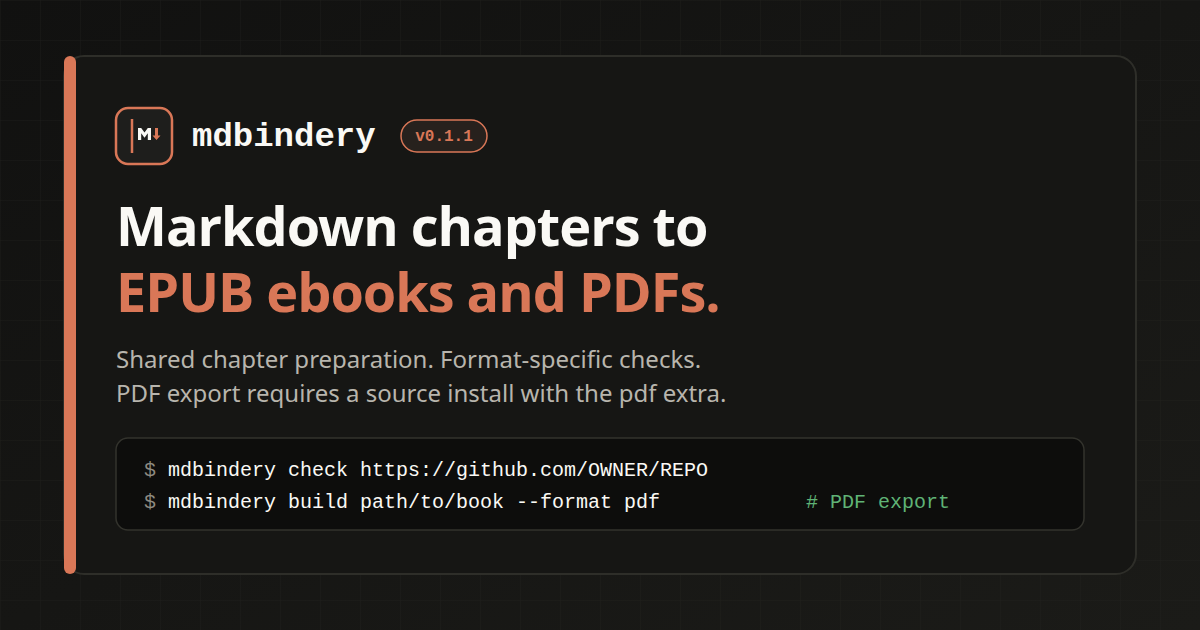
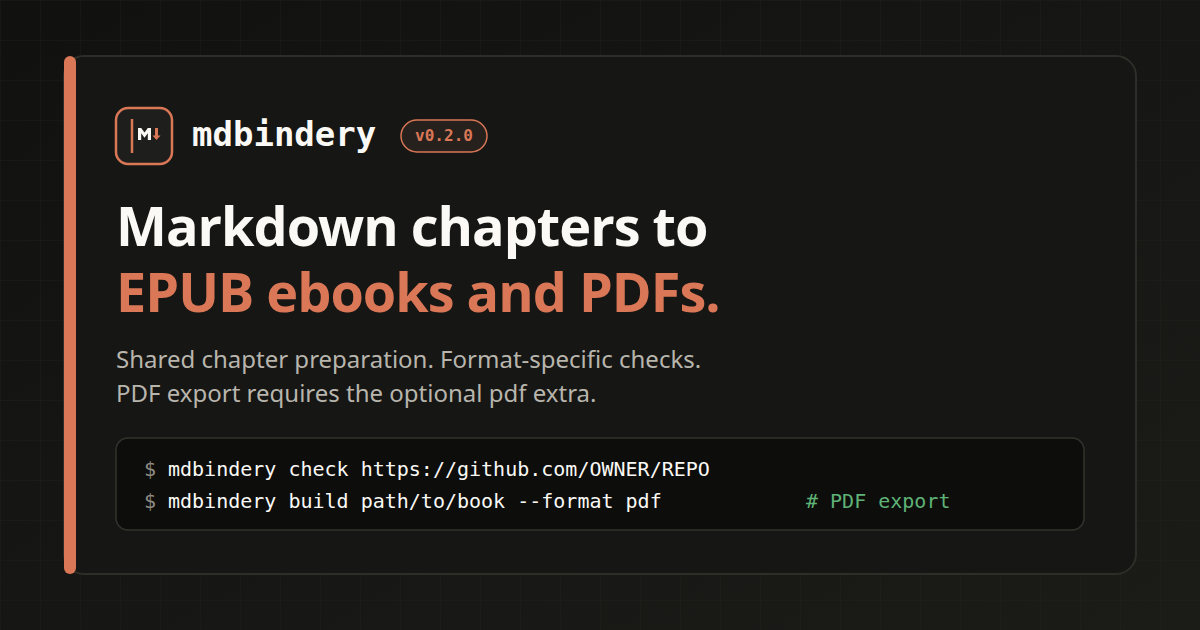
Prepare 0.2.0 release and PDF installation docs

diff --git a/site/index.html b/site/index.html
@@ -17,7 +17,7 @@
   <meta name="theme-color" content="#111110">
 
   <title>mdbindery: Markdown chapters to EPUB and PDF</title>
-  <meta name="description" content="Build EPUB 3 ebooks or paginated PDFs from Markdown chapters and mdBook projects. EPUB is the default; unreleased PDF export requires a source install with the pdf extra.">
+  <meta name="description" content="Build EPUB 3 ebooks or paginated PDFs from Markdown chapters and mdBook projects. EPUB is the default; PDF export requires the optional pdf extra.">
   <meta name="keywords" content="mdbindery, markdown to epub, github to epub, epub 3 generator, mdbook to epub, epubcheck cli, daisy ace accessibility, pandoc epub builder, reproducible epub, ai agent skill epub">
   <meta name="author" content="Taras Baranyuk">
   <meta name="robots" content="index, follow, max-image-preview:large, max-snippet:-1, max-video-preview:-1">
@@ -35,7 +35,7 @@
   <meta property="og:type" content="website">
   <meta property="og:site_name" content="mdbindery">
   <meta property="og:title" content="mdbindery: Markdown chapters to EPUB and PDF">
-  <meta property="og:description" content="Build EPUB 3 ebooks or paginated PDFs from Markdown chapters and mdBook projects. EPUB is the default; unreleased PDF export requires a source install with the pdf extra.">
+  <meta property="og:description" content="Build EPUB 3 ebooks or paginated PDFs from Markdown chapters and mdBook projects. EPUB is the default; PDF export requires the optional pdf extra.">
   <meta property="og:url" content="https://sagol.github.io/mdbindery/">
   <meta property="og:image" content="https://sagol.github.io/mdbindery/og-image.png">
   <meta property="og:image:width" content="1200">
@@ -46,7 +46,7 @@
   <!-- Twitter / X Card -->
   <meta name="twitter:card" content="summary_large_image">
   <meta name="twitter:title" content="mdbindery: Markdown chapters to EPUB and PDF">
-  <meta name="twitter:description" content="Build EPUB 3 ebooks or paginated PDFs from Markdown chapters and mdBook projects. EPUB is the default; unreleased PDF export requires a source install with the pdf extra.">
+  <meta name="twitter:description" content="Build EPUB 3 ebooks or paginated PDFs from Markdown chapters and mdBook projects. EPUB is the default; PDF export requires the optional pdf extra.">
   <meta name="twitter:image" content="https://sagol.github.io/mdbindery/og-image.png">
   <meta name="twitter:image:alt" content="mdbindery commands for building EPUB ebooks and optional PDFs from Markdown">
 
@@ -62,7 +62,7 @@
         "@id": "https://sagol.github.io/mdbindery/#website",
         "url": "https://sagol.github.io/mdbindery/",
         "name": "mdbindery",
-        "description": "Build EPUB 3 ebooks or paginated PDFs from Markdown chapters and mdBook projects. EPUB is the default; unreleased PDF export requires a source install with the pdf extra.",
+        "description": "Build EPUB 3 ebooks or paginated PDFs from Markdown chapters and mdBook projects. EPUB is the default; PDF export requires the optional pdf extra.",
         "inLanguage": "en-US"
       },
       {
@@ -72,7 +72,7 @@
         "applicationCategory": "DeveloperApplication",
         "applicationSubCategory": "Publishing & Ebook Toolchain",
         "operatingSystem": "Linux, macOS, Windows",
-        "softwareVersion": "0.1.1",
+        "softwareVersion": "0.2.0",
         "license": "https://opensource.org/licenses/MIT",
         "url": "https://sagol.github.io/mdbindery/",
         "downloadUrl": "https://pypi.org/project/mdbindery/",
@@ -90,7 +90,7 @@
         },
         "featureList": [
           "Converts GitHub Markdown repositories and mdBook projects into EPUB 3 ebooks",
-          "Exports paginated PDFs from source installations with the pdf extra; unreleased in version 0.1.1",
+          "Exports paginated PDFs with the optional pdf extra",
           "Resolves cross-file relative links, GitHub heading slugs, and custom HTML anchors",
           "Transforms invisible numeric reference definitions [1] into linked reference lists",
           "Renders Mermaid diagrams to PNG with automatic alt text",
@@ -168,7 +168,7 @@
             "name": "Can I export PDF as well as EPUB?",
             "acceptedAnswer": {
               "@type": "Answer",
-              "text": "Yes, from a source install with the pdf extra and Node/Puppeteer tools. Use mdbindery build --format pdf. EPUB remains the default. PDF reports live in reports/pdf/; EPUBCheck and Ace apply only to EPUB. PDF support is unreleased and is not included in version 0.1.1."
+              "text": "Yes, with version 0.2.0 or newer, the pdf extra and Node/Puppeteer tools. Use mdbindery build --format pdf. EPUB remains the default. PDF reports live in reports/pdf/; EPUBCheck and Ace apply only to EPUB."
             }
           }
         ]
@@ -186,7 +186,7 @@
       <a class="brand" href="./" aria-label="mdbindery home">
         <img class="brand-icon" src="favicon.svg" alt="" width="30" height="30">
         <span>mdbindery</span>
-        <span class="version-pill">v0.1.1</span>
+        <span class="version-pill">v0.2.0</span>
       </a>
 
       <nav class="site-nav" aria-label="Primary navigation">
@@ -229,7 +229,7 @@
           <strong>mdbindery</strong> turns Markdown chapters or mdBook projects into EPUB 3 ebooks or paginated PDFs. Both formats share chapter links, citations, images, Mermaid diagrams and table conversion. EPUB runs EPUBCheck and DAISY Ace; PDF checks resources, links and extracted text. Review reports and layout before sharing.
         </p>
 
-        <p>EPUB remains the default. PDF export is unreleased and needs a source install with the <code>pdf</code> extra. <a href="#pdf-install">Set up PDF export</a>.</p>
+        <p>EPUB remains the default. PDF export is available with the optional <code>pdf</code> extra. <a href="#pdf-install">Set up PDF export</a>.</p>
 
         <div class="hero-cta-row">
           <a class="btn btn-primary" href="#install">Install mdbindery</a>
@@ -263,7 +263,7 @@ mdbindery: writing-a-book-in-markdown (5 files)
 <span class="cmd-ok">BUILD OK</span>
 
 <span class="cmd-comment"># 3. Export PDF after installing PDF dependencies</span>
-<span class="cmd-prompt">$ </span>mdbindery build examples/sample-book --format pdf</code></pre>
+<span class="cmd-prompt">$ </span>mdbindery build ./my-book --format pdf</code></pre>
           </div>
 
           <aside class="ereader-card" aria-label="Rendered EPUB 3 phone preview illustration">
@@ -410,7 +410,7 @@ mdbindery: writing-a-book-in-markdown (5 files)
             <p>Pin a specific release tag or pass <code>--no-node</code> to skip Node.js tools (<code>~370 MB</code> instead of <code>~1.5 GB</code>):</p>
             <div class="code-block-wrap">
               <button class="copy-btn" type="button" data-copy-target="code-install-unix-pin">Copy</button>
-              <pre><code id="code-install-unix-pin">curl -fsSL https://raw.githubusercontent.com/sagol/mdbindery/v0.1.1/install/install.sh | bash -s -- --ref v0.1.1</code></pre>
+              <pre><code id="code-install-unix-pin">curl -fsSL https://raw.githubusercontent.com/sagol/mdbindery/v0.2.0/install/install.sh | bash -s -- --ref v0.2.0</code></pre>
             </div>
           </div>
 
@@ -450,19 +450,19 @@ mdbindery doctor</code></pre>
             <p>Use the official composite GitHub Action with tool caching across workflow runs:</p>
             <div class="code-block-wrap">
               <button class="copy-btn" type="button" data-copy-target="code-install-gha">Copy</button>
-              <pre><code id="code-install-gha">- uses: sagol/mdbindery@v0.1.1
+              <pre><code id="code-install-gha">- uses: sagol/mdbindery@v0.2.0
 - run: mdbindery build path/to/book</code></pre>
             </div>
           </div>
         </div>
         <div id="pdf-install">
-          <h3>Optional PDF export from source</h3>
-          <p>Released version <code>0.1.1</code> predates PDF support. From a source checkout containing this feature, run these commands at the repository root in your Python environment:</p>
+          <h3>Optional PDF export</h3>
+          <p>Install version 0.2.0 or newer with the PDF extra in your Python environment:</p>
           <div class="code-block-wrap">
             <button class="copy-btn" type="button" data-copy-target="code-install-pdf">Copy</button>
-            <pre><code id="code-install-pdf">python -m pip install '.[pdf]'
+            <pre><code id="code-install-pdf">python -m pip install 'mdbindery[pdf]>=0.2.0'
 mdbindery install-tools
-mdbindery build examples/sample-book --format pdf</code></pre>
+mdbindery build ./my-book --format pdf</code></pre>
           </div>
           <p>PDF needs Node.js, Puppeteer and pypdf. An install with <code>--no-node</code> cannot export PDF. <code>doctor</code> checks the EPUB toolchain; it does not verify pypdf. See the <a href="https://github.com/sagol/mdbindery/blob/main/docs/pdf.md" rel="noopener noreferrer">PDF guide</a>.</p>
         </div>
@@ -1216,7 +1216,7 @@ mdbindery preview dist/writing-a-book-in-markdown.epub shots</code></pre>
 
 
         <div class="faq-list">
-        <details class="faq-item"><summary>Can I export PDF as well as EPUB?</summary><p>Yes, from a source install with the pdf extra and Node/Puppeteer tools. Use mdbindery build --format pdf. EPUB remains the default. PDF reports live in reports/pdf/; EPUBCheck and Ace apply only to EPUB. PDF support is unreleased and is not included in version 0.1.1.</p></details>
+        <details class="faq-item"><summary>Can I export PDF as well as EPUB?</summary><p>Yes, with version 0.2.0 or newer, the pdf extra and Node/Puppeteer tools. Use mdbindery build --format pdf. EPUB remains the default. PDF reports live in reports/pdf/; EPUBCheck and Ace apply only to EPUB.</p></details>
           <details class="faq-item" open>
             <summary>What makes mdbindery different from running pandoc directly?</summary>
             <p>
@@ -1252,7 +1252,7 @@ mdbindery preview dist/writing-a-book-in-markdown.epub shots</code></pre>
   <footer class="site-footer" role="contentinfo">
     <div class="container footer-inner">
       <div>
-        <strong>mdbindery v0.1.1</strong> · Created by Taras Baranyuk · Released under the <a href="https://github.com/sagol/mdbindery/blob/main/LICENSE" rel="noopener noreferrer">MIT License</a>.<br>
+        <strong>mdbindery v0.2.0</strong> · Created by Taras Baranyuk · Released under the <a href="https://github.com/sagol/mdbindery/blob/main/LICENSE" rel="noopener noreferrer">MIT License</a>.<br>
         Orchestrates <a href="https://pandoc.org" rel="noopener noreferrer">pandoc</a>, <a href="https://www.w3.org/publishing/epubcheck/" rel="noopener noreferrer">EPUBCheck</a>, <a href="https://daisy.github.io/ace/" rel="noopener noreferrer">DAISY Ace</a>, <a href="https://github.com/mermaid-js/mermaid-cli" rel="noopener noreferrer">mermaid-cli</a>, <a href="https://adoptium.net" rel="noopener noreferrer">Eclipse Temurin</a>, and <a href="https://github.com/astral-sh/uv" rel="noopener noreferrer">uv</a>.
       </div>
       <div class="footer-links">

diff --git a/src/mdbindery/__init__.py b/src/mdbindery/__init__.py
@@ -1,2 +1,2 @@
-"""mdbindery: Markdown chapters to validated EPUB 3."""
-__version__ = "0.1.1"
+"""mdbindery: Markdown chapters to validated EPUB 3 or paginated PDF."""
+__version__ = "0.2.0"

diff --git a/docs/installation.md b/docs/installation.md
@@ -65,8 +65,8 @@ When the installer finishes, open a new terminal and run `mdbindery doctor` (see
 The commands above install the latest code on `main`. To install a release, take the installer from its tag and pass the same tag as `--ref` (`-Ref` on Windows):
 
 ```
-curl -fsSL https://raw.githubusercontent.com/sagol/mdbindery/v0.1.1/install/install.sh | bash -s -- --ref v0.1.1
-& ([scriptblock]::Create((irm https://raw.githubusercontent.com/sagol/mdbindery/v0.1.1/install/install.ps1))) -Ref v0.1.1
+curl -fsSL https://raw.githubusercontent.com/sagol/mdbindery/v0.2.0/install/install.sh | bash -s -- --ref v0.2.0
+& ([scriptblock]::Create((irm https://raw.githubusercontent.com/sagol/mdbindery/v0.2.0/install/install.ps1))) -Ref v0.2.0
 ```
 
 The installers never ask questions and exit with a non-zero status when a step fails, so they can run unattended in provisioning scripts and CI.
@@ -81,7 +81,7 @@ Every channel installs the same `mdbindery` command. The external tools always c
 | PyPI with uv | `uv tool install mdbindery` | `uv tool upgrade mdbindery` |
 | PyPI with pip | `python -m pip install mdbindery` (in a virtual environment) | `python -m pip install -U mdbindery` |
 | Homebrew (macOS, Linux) | `brew install sagol/tap/mdbindery` | `brew upgrade mdbindery` |
-| A release's files | the wheel or source archive from the [releases page](https://github.com/sagol/mdbindery/releases): `pipx install ./mdbindery-0.1.1-py3-none-any.whl` | install the newer file |
+| A release's files | the wheel or source archive from the [releases page](https://github.com/sagol/mdbindery/releases): `pipx install ./mdbindery-0.2.0-py3-none-any.whl` | install the newer file |
 
 After any of these, run:
 
@@ -90,7 +90,7 @@ mdbindery install-tools
 mdbindery doctor
 ```
 
-To pin a version: `pipx install mdbindery==0.1.1`, `uv tool install mdbindery==0.1.1`.
+To pin a version: `pipx install mdbindery==0.2.0`, `uv tool install mdbindery==0.2.0`.
 
 ### GitHub Actions
 
@@ -102,7 +102,7 @@ jobs:
     runs-on: ubuntu-latest
     steps:
       - uses: actions/checkout@v4
-      - uses: sagol/mdbindery@v0.1.1
+      - uses: sagol/mdbindery@v0.2.0
       - run: mdbindery check . --build
       - run: mdbindery build
       - uses: actions/upload-artifact@v4
@@ -388,7 +388,7 @@ Building needs no network access: a remote image (`https://...`) is never downlo
 `mdbindery doctor` prints the version, the tool home, and one line per tool. A full install in the default tool home (path shortened):
 
 ```
-mdbindery 0.1.1
+mdbindery 0.2.0
 tool home: .../.local/share/mdbindery (default; set MDBINDERY_HOME to use another)
 --- tools
 pandoc     pandoc 3.11
@@ -448,4 +448,4 @@ Installed from PyPI, Homebrew, or manually: uninstall the package (`pipx uninsta
 
 ## Optional PDF export
 
-PDF needs the `pdf` Python extra and the Node/Puppeteer tools; an install with `--no-node` cannot export PDF. See [PDF installation](pdf.md#install-pdf-dependencies). PDF support is unreleased; version `0.1.1` lacks it. Install the source checkout with `python -m pip install '.[pdf]'` in your Python environment. Base installers omit this extra. `doctor` checks the EPUB toolchain; a successful `doctor` run does not prove pypdf is installed.
+PDF needs the `pdf` Python extra and the Node/Puppeteer tools; an install with `--no-node` cannot export PDF. See [PDF installation](pdf.md#install-pdf-dependencies). PDF export requires version 0.2.0 or newer. Install `python -m pip install 'mdbindery[pdf]>=0.2.0'` in your Python environment. Base installers omit this extra. `doctor` checks the EPUB toolchain; a successful `doctor` run does not prove pypdf is installed.

diff --git a/README.md b/README.md
@@ -12,7 +12,7 @@ mdbindery build path/to/your-book                 # dist/<slug>.epub, default ou
 mdbindery build path/to/your-book --format pdf    # dist/<slug>.pdf, requires PDF dependencies
 ```
 
-EPUB remains the default. PDF support is unreleased; install from source with the `pdf` extra. See [PDF setup, settings and limits](docs/pdf.md).
+EPUB remains the default. PDF export is available in 0.2.0 with the `pdf` extra. See [PDF setup, settings and limits](docs/pdf.md).
 
 ## What it does
 
@@ -61,7 +61,7 @@ irm https://raw.githubusercontent.com/sagol/mdbindery/main/install/install.ps1 |
 
 The installer needs nothing preinstalled. It fetches [uv](https://github.com/astral-sh/uv), installs mdbindery in an isolated environment (with its own Python if needed), then downloads pandoc, EPUBCheck, a Java runtime if none is present, Node.js, mermaid-cli, and Ace into a per-user folder. pandoc, EPUBCheck, Node.js, and uv are pinned to exact versions and verified against SHA-256 checksums; the Java runtime comes from Eclipse Temurin's API with its published checksum; mermaid-cli and Ace are pinned by version. Nothing needs administrator rights, and nothing asks questions, so the same commands work in scripts and CI.
 
-To pin a release, pass its tag: `curl -fsSL https://raw.githubusercontent.com/sagol/mdbindery/v0.1.1/install/install.sh | bash -s -- --ref v0.1.1`.
+To pin a release, pass its tag: `curl -fsSL https://raw.githubusercontent.com/sagol/mdbindery/v0.2.0/install/install.sh | bash -s -- --ref v0.2.0`.
 
 Other ways to install:
 
@@ -69,26 +69,26 @@ Other ways to install:
 |---|---|
 | PyPI (pipx, uv, pip) | `pipx install mdbindery` or `uv tool install mdbindery`, then `mdbindery install-tools` |
 | Homebrew (macOS, Linux) | `brew install sagol/tap/mdbindery`, then `mdbindery install-tools` |
-| GitHub Actions | `- uses: sagol/mdbindery@v0.1.1`, then run `mdbindery` in later steps |
+| GitHub Actions | `- uses: sagol/mdbindery@v0.2.0`, then run `mdbindery` in later steps |
 | Release files | wheel, source archive, and both installers on the [releases page](https://github.com/sagol/mdbindery/releases) |
 
 In a workflow:
 
 ```yaml
-- uses: sagol/mdbindery@v0.1.1      # installs mdbindery and its tools, cached between runs
+- uses: sagol/mdbindery@v0.2.0      # installs mdbindery and its tools, cached between runs
 - run: mdbindery build path/to/book  # exit 1 when a gate fails
 ```
 
 Details, options, manual installation, and uninstalling: [docs/installation.md](https://github.com/sagol/mdbindery/blob/main/docs/installation.md).
 
-For PDF from a source checkout, install the extra in your Python environment and keep Node/Puppeteer tools enabled:
+For PDF, install the extra in your Python environment and keep Node/Puppeteer tools enabled:
 
 ```sh
-python -m pip install '.[pdf]'
+python -m pip install 'mdbindery[pdf]>=0.2.0'
 mdbindery install-tools
 ```
 
-These commands run from the repository root. Released version `0.1.1` predates PDF support. See [PDF installation](docs/pdf.md#install-pdf-dependencies).
+PDF export requires version 0.2.0 or newer. See [PDF installation](docs/pdf.md#install-pdf-dependencies).
 
 ## Quick start
 

diff --git a/skills/mdbindery-prepare-repo/SKILL.md b/skills/mdbindery-prepare-repo/SKILL.md
@@ -7,7 +7,7 @@ description: Prepare a GitHub or local repository of Markdown chapters for mdbin
 
 mdbindery builds EPUB 3 or optional PDF from Markdown written the GitHub way: one file per chapter, relative links between files, images inside the repository, citations as `[1]` with reference definitions. This skill brings an existing repository into that shape and loops on `mdbindery check` and `mdbindery build` until every gate passes. The same files must keep rendering well on github.com.
 
-The authoritative rules are in `docs/book-structure.md`, `docs/checking.md`, and `docs/configuration.md` of the mdbindery repository. This skill adds the procedure, a fix for every check code, and the tool's limits, covering the `0.1.1` EPUB workflow and unreleased PDF export. The procedure below uses EPUB by default. For PDF-only work, apply the same source fixes, then follow the PDF instructions in the `mdbindery` skill: build with `--format pdf`, read `reports/pdf/`, and inspect PDF layout in a viewer. Do not require EPUBCheck, Ace, an identifier or EPUB screenshots for PDF-only delivery. `check --build` remains EPUB-only.
+The authoritative rules are in `docs/book-structure.md`, `docs/checking.md`, and `docs/configuration.md` of the mdbindery repository. This skill adds the procedure, a fix for every check code, and the tool's limits, covering the `0.2.0` EPUB and PDF workflows. The procedure below uses EPUB by default. For PDF-only work, apply the same source fixes, then follow the PDF instructions in the `mdbindery` skill: build with `--format pdf`, read `reports/pdf/`, and inspect PDF layout in a viewer. Do not require EPUBCheck, Ace, an identifier or EPUB screenshots for PDF-only delivery. `check --build` remains EPUB-only.
 
 ## When to use
 
@@ -629,7 +629,7 @@ Severity: E error, W warning, I info (note). Only errors make `check` exit with 
 
 ## Known limitations
 
-Verified in mdbindery 0.1.1. Keep them in mind so you do not chase phantom problems or miss real ones.
+Verified in mdbindery 0.2.0. Keep them in mind so you do not chase phantom problems or miss real ones.
 
 - MB106 and MB110 are warnings because the build repairs these files; fix them anyway, since the repaired titles come from file names or promoted headings the author did not choose. MB107 is a warning because the book still builds, with one more table of contents entry for each extra `#` heading.
 - `facts.totals.images` estimates image kinds line by line (8.2); the preview decides.

diff --git a/skills/mdbindery/SKILL.md b/skills/mdbindery/SKILL.md
@@ -5,7 +5,7 @@ description: Operate mdbindery, the CLI that builds EPUB 3 ebooks or optional PD
 
 # Run mdbindery
 
-mdbindery turns a folder or GitHub repository of Markdown chapters (one file per chapter, relative links, local images, `[1]` citations with reference definitions) into EPUB 3 (default) or PDF (`--format pdf`). Both share source checks. EPUB adds EPUBCheck, Ace and per-chapter word counts; PDF checks rendered resources, internal links and extracted text. A failed gate fails the build. PDF support is unreleased; install from source with the `pdf` extra. See the PDF section below.
+mdbindery turns a folder or GitHub repository of Markdown chapters (one file per chapter, relative links, local images, `[1]` citations with reference definitions) into EPUB 3 (default) or PDF (`--format pdf`). Both share source checks. EPUB adds EPUBCheck, Ace and per-chapter word counts; PDF checks rendered resources, internal links and extracted text. A failed gate fails the build. PDF export is available in 0.2.0 with the `pdf` extra. See the PDF section below.
 
 This skill covers running the tool. Fixing the repository belongs to the `mdbindery-prepare-repo` skill; switch to it as soon as `check` reports problems in the Markdown.
 
@@ -46,7 +46,7 @@ mdbindery doctor
 `doctor` prints the version, the tool home, and one line per tool:
 
 ```
-mdbindery 0.1.1
+mdbindery 0.2.0
 tool home: /home/you/.local/share/mdbindery (default; set MDBINDERY_HOME to use another)
 --- tools
 pandoc     pandoc 3.11
@@ -246,7 +246,7 @@ Without a config, mdbindery infers the reading order: from `SUMMARY.md` or anoth
 
 ## Optional PDF output
 
-PDF support is unreleased; version `0.1.1` lacks it. From the root of a source checkout containing this feature, install `python -m pip install '.[pdf]'` in the CLI's Python environment, then `mdbindery install-tools` without `--no-node`. Run `mdbindery build BOOK --format pdf`.
+PDF export requires version 0.2.0 or newer. Install `python -m pip install 'mdbindery[pdf]>=0.2.0'` in the CLI's Python environment, then `mdbindery install-tools` without `--no-node`. Run `mdbindery build BOOK --format pdf`.
 
 EPUB remains default. PDF reports use `reports/pdf/`; source config and any existing EPUB reports stay unchanged. Inspect `gates.pdf` and the PDF itself. Page sizes A4/Letter, margins 10–40 mm and page numbers live under `options.pdf`. `doctor` does not check pypdf. `check --build`, `preview`, EPUBCheck and Ace apply only to EPUB.
 

diff --git a/site/README.md b/site/README.md
@@ -1,6 +1,6 @@
 # mdbindery site
 
-Static landing page and technical reference for `mdbindery` (`v0.1.1` release plus unreleased PDF export from source). Includes search metadata, coding-agent resources, and deployment helpers in `site/`.
+Static landing page and technical reference for `mdbindery` (`v0.2.0`, with EPUB and optional PDF export). Includes search metadata, coding-agent resources, and deployment helpers in `site/`.
 
 ## Files
 
@@ -40,7 +40,7 @@ python3 site/stage.py _site
 
 Staging requires an empty destination and copies only `stage.PUBLIC_FILES`. The README, scripts, and workflow template are excluded. Preview `_site/` to review the published files.
 
-The validator parses command examples without executing them. It checks the HTML and LLM configuration examples against the current schema, not the existence of example book files. It also checks diagnostic identifiers, local links, fragment IDs, ARIA/copy targets, the web manifest, sitemap XML, and JSON-LD. It does not check external URLs, every prose claim, or screen-reader behavior. Keep unreleased PDF setup distinct from release installation. EPUB-only validation and byte-reproducibility claims must stay labeled.
+The validator parses command examples without executing them. It checks the HTML and LLM configuration examples against the current schema, not the existence of example book files. It also checks diagnostic identifiers, local links, fragment IDs, ARIA/copy targets, the web manifest, sitemap XML, and JSON-LD. It does not check external URLs, every prose claim, or screen-reader behavior. Keep the optional PDF dependencies explicit. EPUB-only validation and byte-reproducibility claims must stay labeled.
 
 Before release, inspect 320, 390, 768, and 1280 px layouts in both themes. Check keyboard tabs, filtering, clipboard rejection, no-JS instructions, reduced motion, and zoom. Full accessibility conformance needs a broader review than these checks.
 

diff --git a/docs/troubleshooting.md b/docs/troubleshooting.md
@@ -69,7 +69,7 @@ The installers put the `mdbindery` command in `~/.local/bin` (Windows: `%USERPRO
 mdbindery looks for its tools in `MDBINDERY_HOME` on every run, not only during installation. If you installed with a custom `MDBINDERY_HOME` and a new terminal does not have it set, mdbindery looks in the default folder and finds nothing there:
 
 ```
-mdbindery 0.1.1
+mdbindery 0.2.0
 tool home: .../.local/share/mdbindery (default; set MDBINDERY_HOME to use another)
 --- tools
 pandoc     missing
@@ -363,8 +363,8 @@ The last lines of the traceback follow. Report the problem at the address shown,
 
 ## PDF export errors
 
-- `unrecognized arguments: --format pdf`: installed release lacks PDF support. Use a source checkout containing this feature; version `0.1.1` predates it.
-- `PDF needs pypdf`: install `.[pdf]` from the repository root in the same Python environment as the CLI.
+- `unrecognized arguments: --format pdf`: installed release lacks PDF support. Upgrade to version `0.2.0` or newer with the `pdf` extra.
+- `PDF needs pypdf`: install `mdbindery[pdf]` in the same Python environment as the CLI.
 - Missing Node/Puppeteer: run `mdbindery install-tools` without `--no-node`. `doctor` does not check pypdf.
 - `PDF resources or internal links failed`: check images, anchors and CSS. Browser requests allow only staged assets and data URLs. List CSS fonts in `options.embed_fonts` and reference those exact paths. Remote CSS resources and unstaged files are blocked.
 - Browser sandbox cannot start: PDF does not retry without it. On a trusted CI/container host, explicitly set `MDBINDERY_NO_SANDBOX=1`. See [PDF resource handling](pdf.md#checks-and-failures).

diff --git a/docs/pdf.md b/docs/pdf.md
@@ -10,15 +10,15 @@ EPUB remains the default. PDF output is `<output_dir>/<slug>.pdf`. Reports use `
 
 ## Install PDF dependencies
 
-PDF uses the existing Node.js, Puppeteer and headless Chrome installed by `mdbindery install-tools`. The `pdf` Python extra adds pypdf for output validation. From a source checkout, inside your Python environment:
+PDF uses the existing Node.js, Puppeteer and headless Chrome installed by `mdbindery install-tools`. The `pdf` Python extra adds pypdf for output validation. With version 0.2.0 or newer, inside your Python environment:
 
 ```sh
-python -m pip install '.[pdf]'
+python -m pip install 'mdbindery[pdf]>=0.2.0'
 mdbindery install-tools
-mdbindery build examples/sample-book --format pdf
+mdbindery build ./my-book --format pdf
 ```
 
-For a published release containing PDF support, install `mdbindery[pdf]` instead. An EPUB-only installation can keep `--no-node` and omit the PDF extra. PDF export reports missing dependencies before preparing chapters.
+For a source checkout, use `python -m pip install '.[pdf]'` at the repository root instead. For an isolated CLI installation, use `uv tool install 'mdbindery[pdf]'` or `pipx install 'mdbindery[pdf]'`. An EPUB-only installation can keep `--no-node` and omit the PDF extra. PDF export reports missing dependencies before preparing chapters.
 
 ## Page settings
 

diff --git a/docs/design.md b/docs/design.md
@@ -294,7 +294,7 @@ Links phase (`work/links.ctx.json`): `{"h1": {"k00": "k00-writing-a-book-in-mark
   "pandoc_warnings": [],
   "epub": ".../dist/writing-a-book-in-markdown.epub",
   "cover": ".../dist/writing-a-book-in-markdown-cover.jpg",
-  "provenance": {"mdbindery": "0.1.1", "python": "3.12.14", "pandoc": "3.11", "epubcheck": "epubcheck-5.4.0",
+  "provenance": {"mdbindery": "0.2.0", "python": "3.12.14", "pandoc": "3.11", "epubcheck": "epubcheck-5.4.0",
                  "ace": "1.4.6", "source_revision": "<git commit or null>", "options": {}},
   "timings": {"analysis": 1.9, "epub": 0.6, "epubcheck": 2.8, "ace": 6.1, "wordcount": 0.5},
   "ok": true,

diff --git a/CHANGELOG.md b/CHANGELOG.md
@@ -1,6 +1,6 @@
 # Changelog
 
-## Unreleased
+## 0.2.0 (2026-09-28)
 
 - Report failed tool version probes correctly in `doctor`, including timeouts and launch errors.
 - Stop Git fetch subprocesses on timeout or interruption and bound captured diagnostics.
